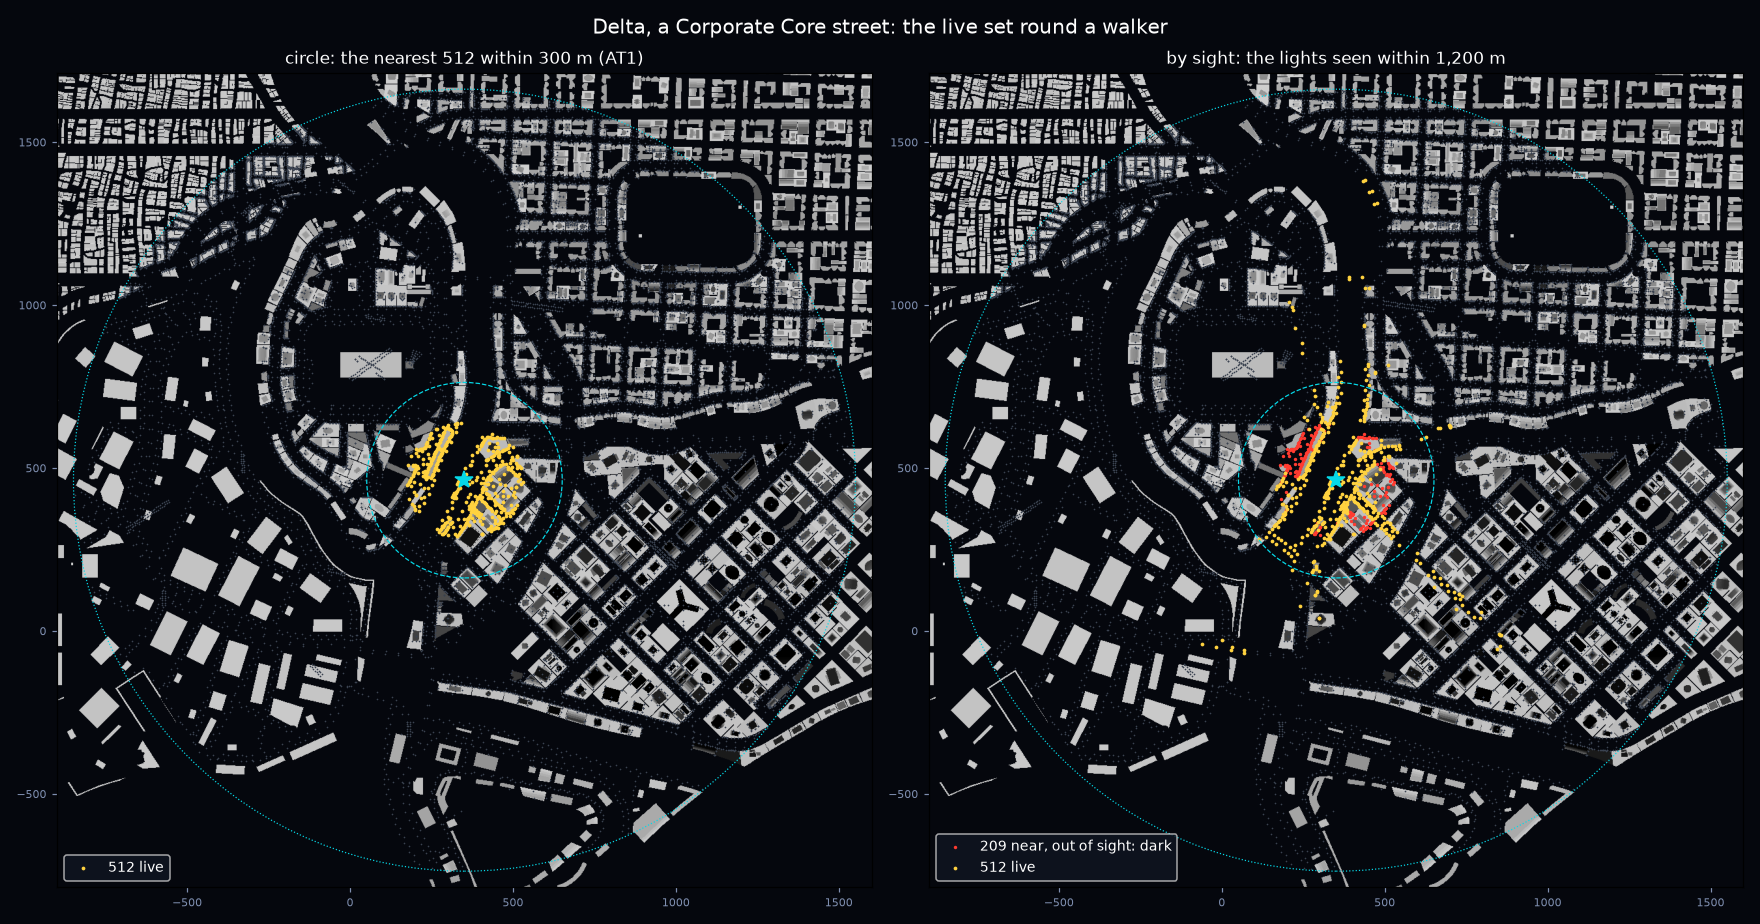
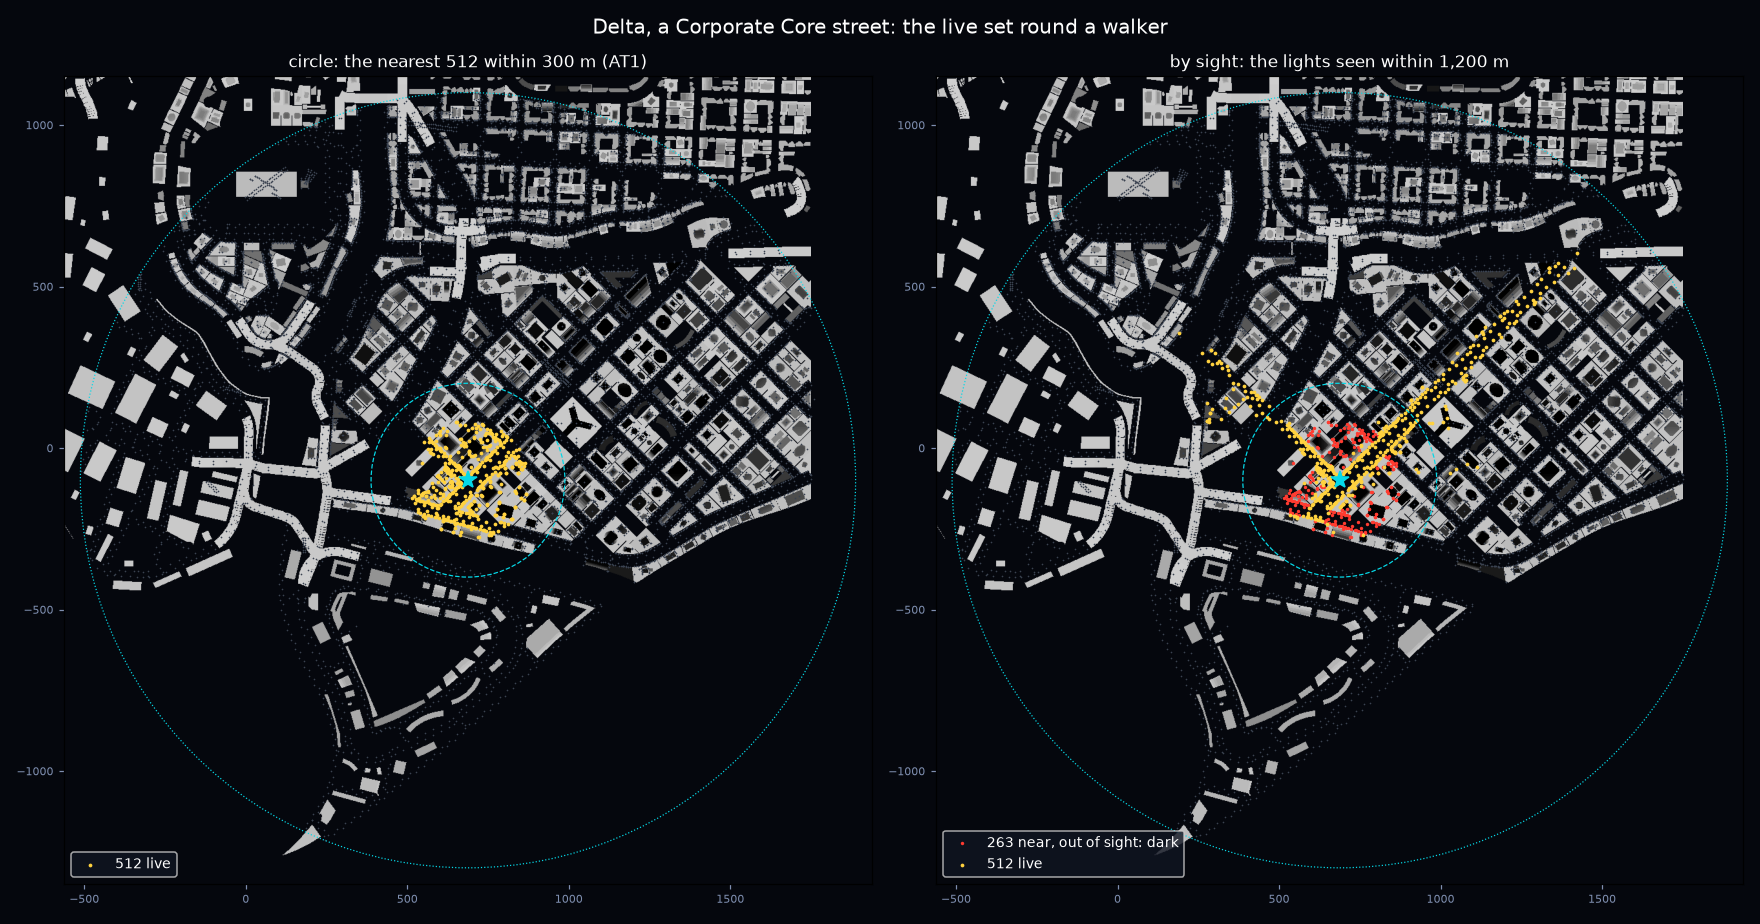
Visible lights: raised roads in the sight raster, live-set figures (WIP)

diff --git a/atmosgen/sight.py b/atmosgen/sight.py
@@ -6,8 +6,10 @@ The raster is the lux check's occluders (`lux.Occluders`: the building masses ta
 `lux.ERODE_M` inside their footprints, and the deck slabs, on a 1 m grid) brought to
 `CELL_M` cells: a cell blocks the height span every one of its four 1 m cells blocks (the
 lowest top over the highest bottom), so a line of sight grazing a facade, or reaching a sign
-stood off it, stays clear; and the ground under it (M13's, the lowest of its corners; 0 on a
-flat city) blocks everything below it. `sight.png` beside the plan, row 0 the north edge:
+stood off it, stays clear; the raised roads (`road_decks`: a viaduct's deck from its
+underside to its parapet, a ramp's foot and M18's embankments from the ground), which the lux
+check leaves out; and the ground under it (M13's, the lowest of its corners; 0 on a flat city)
+blocks everything below it. `sight.png` beside the plan, row 0 the north edge:
 
 - red: the top of what stands in the cell, absolute, in `TOP_STEP_M` steps rounded down
   (0: nothing stands there);
@@ -41,10 +43,77 @@ SKIP_EYE_M = 0.5          # the march leaves out the first this from the eye ...
 SKIP_LIGHT_M = 1.0        # ... and the last this to the light
 
 
-def raster(occ, ground_many=None, cell: float = CELL_M) -> dict:
-    """The sight raster from the lux check's occluders (`lux.Occluders`) and the ground
-    (`City.ground_many`, None on a flat city): {rgb (ny, nx, 3) uint8 with row 0 the north,
-    bounds [x0, y0, x1, y1], cell_m}."""
+RAISED_M = 2.5            # a road stretch this high or more over the ground is a deck ...
+DECK_UNDER_M = 1.8        # ... its underside this far under the road (citygen's ROAD_DECK_M)
+PARAPET_M = 1.1           # ... its parapet this far over it
+DECK_STEP_M = 8.0         # ... drawn in pieces this long
+DECK_INSET_M = 0.5        # ... this far inside its edges
+
+
+def road_decks(m: dict, ground_many=None) -> list:
+    """The raised roads as occluders (not the lux check's: a viaduct's deck blocks a walker's
+    view of what is past it, its parapet included): per raised road stretch of DECK_STEP_M,
+    its corridor (DECK_INSET_M inside its edges) from the deck's underside to its parapet's
+    top, absolute; a stretch whose underside is near the ground (a ramp's foot, M18's
+    embankments) stands on it. [(ring, z0, z1)]."""
+    from shapely.geometry import LineString
+    from shapely.ops import substring
+    out = []
+    for s in m.get("road_segments", []):
+        prof = s.get("z_profile") or []
+        if not prof or max(p["z"] for p in prof) < RAISED_M:
+            continue
+        ln = LineString([q[:2] for q in s["centerline"]])
+        if ln.length <= 0.0:
+            continue
+        ss = np.array([p["s"] for p in prof], dtype=float)
+        zs = np.array([p["z"] for p in prof], dtype=float)
+        half = float(s.get("width_m", 8.0)) / 2.0 - DECK_INSET_M
+        if half <= 0.5:
+            continue
+        n = max(1, int(math.ceil(ln.length / DECK_STEP_M)))
+        for k in range(n):
+            a, b = ln.length * k / n, ln.length * (k + 1) / n
+            z = np.interp(np.linspace(a, b, 5), ss, zs)
+            if z.max() < RAISED_M:
+                continue
+            piece = substring(ln, a, b)
+            if piece.length <= 0.0:
+                continue
+            g = piece.buffer(half, cap_style="flat")
+            if g.is_empty or g.geom_type != "Polygon":
+                continue
+            mid = piece.interpolate(0.5, normalized=True)
+            gz = float(ground_many([mid.x], [mid.y])[0]) if ground_many is not None else 0.0
+            out.append((list(g.exterior.coords), gz + float(z.min()) - DECK_UNDER_M,
+                        gz + float(z.max()) + PARAPET_M))
+    return out
+
+
+def _cells(shape, x0, y0, c, ring):
+    """The cells (rows from the south) whose middle lies in the ring, as a mask over its box:
+    (j0, i0, mask) or None."""
+    from PIL import Image, ImageDraw
+    ny, nx = shape
+    xs = [p[0] for p in ring]
+    ys = [p[1] for p in ring]
+    i0 = max(0, int(math.floor((min(xs) - x0) / c)))
+    j0 = max(0, int(math.floor((min(ys) - y0) / c)))
+    i1 = min(nx, int(math.ceil((max(xs) - x0) / c)) + 1)
+    j1 = min(ny, int(math.ceil((max(ys) - y0) / c)) + 1)
+    if i1 <= i0 or j1 <= j0:
+        return None
+    img = Image.new("L", (i1 - i0, j1 - j0), 0)
+    ImageDraw.Draw(img).polygon([((p[0] - x0) / c - i0 - 0.5, (p[1] - y0) / c - j0 - 0.5)
+                                 for p in ring], fill=1)
+    mask = np.asarray(img, dtype=bool)
+    return (j0, i0, mask) if mask.any() else None
+
+
+def raster(occ, ground_many=None, cell: float = CELL_M, decks=()) -> dict:
+    """The sight raster from the lux check's occluders (`lux.Occluders`), the raised roads
+    (`road_decks`) and the ground (`City.ground_many`, None on a flat city): {rgb (ny, nx, 3)
+    uint8 with row 0 the north, bounds [x0, y0, x1, y1], cell_m}."""
     k = max(1, int(round(cell / occ.cell)))
     ny, nx = occ.top.shape
     ny2, nx2 = (ny + k - 1) // k, (nx + k - 1) // k
@@ -57,6 +126,22 @@ def raster(occ, ground_many=None, cell: float = CELL_M) -> dict:
     b = bot.reshape(ny2, k, nx2, k).max(axis=(1, 3))
     c = occ.cell * k
     x0, y0 = occ.x0, occ.y0
+    # the raised roads, cell by cell (a middle in the corridor): where a cell holds nothing
+    # else, the deck's span; where a building's span meets it, the two as one
+    for ring, z0, z1 in decks:
+        hit = _cells(t.shape, x0, y0, c, ring)
+        if hit is None:
+            continue
+        j0, i0, mask = hit
+        tv = t[j0:j0 + mask.shape[0], i0:i0 + mask.shape[1]]
+        bv = b[j0:j0 + mask.shape[0], i0:i0 + mask.shape[1]]
+        empty = ~(np.isfinite(tv) & np.isfinite(bv) & (tv > bv))
+        meet = ~empty & (bv <= z1 + 0.5) & (tv >= z0 - 0.5)
+        put = mask & empty
+        tv[put], bv[put] = z1, z0
+        both = mask & meet
+        tv[both] = np.maximum(tv[both], z1)
+        bv[both] = np.minimum(bv[both], z0)
     if ground_many is not None:
         xs = x0 + c * np.arange(nx2 + 1)
         ys = y0 + c * np.arange(ny2 + 1)

diff --git a/tests/atmosgen/test_at_sight.py b/tests/atmosgen/test_at_sight.py
@@ -65,6 +65,27 @@ def test_lines_of_sight():
     assert SI.visible(r, (41.0, 50.0, 1.7), (10.0, 50.0, 5.0))
 
 
+def test_raised_roads_block_what_is_past_them():
+    """A viaduct (deck top 9 m, 12 m wide) across the map at y 50: a walker under it sees
+    along the street under it, not the lamps on the far side's street over the parapet."""
+    m = {"road_segments": [{"id": "rs.v", "width_m": 12.0,
+                            "centerline": [[0.0, 50.0], [100.0, 50.0]],
+                            "z_profile": [{"s": 0.0, "z": 9.0}, {"s": 100.0, "z": 9.0}]},
+                           {"id": "rs.g", "width_m": 10.0,
+                            "centerline": [[50.0, 0.0], [50.0, 100.0]],
+                            "z_profile": [{"s": 0.0, "z": 0.0}, {"s": 100.0, "z": 0.0}]}]}
+    decks = SI.road_decks(m)
+    assert decks and all(abs(z0 - 7.2) < 1e-6 and abs(z1 - 10.1) < 1e-6 for _, z0, z1 in decks)
+    r = SI.raster(_Occ(), decks=decks)
+    row = r["rgb"][25]                   # (y 50: 25 rows down from the north edge)
+    assert (row[5:45, 0] == 5).all() and (row[5:45, 1] == 8).all()
+    eye = (20.0, 20.0, 1.7)
+    assert not SI.visible(r, eye, (20.0, 80.0, 18.0))     # through the deck's side
+    assert SI.visible(r, eye, (20.0, 80.0, 6.0))          # under it
+    assert SI.visible(r, (50.0, 30.0, 1.7), (50.0, 80.0, 1.0))   # under it, along the street
+    assert SI.visible(r, eye, (20.0, 80.0, 40.0))         # over it
+
+
 def test_runs_cover_the_raster():
     r = _raster()
     runs = SI.runs(r["rgb"])

diff --git a/atmosgen/plan.py b/atmosgen/plan.py
@@ -1715,8 +1715,9 @@ def build_plan(build: str | Path, spec_path: str | Path | None = None,
         (od / SK.GLOW_FILE).unlink()
     # visible lights: the occluders the runtime marches a walker's line of sight through
     from . import sight as SI
+    gm = city.ground_many if city._grid is not None else None
     sight = timed("sight", lambda: SI.write(
-        SI.raster(occ, city.ground_many if city._grid is not None else None), od))
+        SI.raster(occ, gm, decks=SI.road_decks(city.m, gm)), od))
     # AT4: the air: fog and smog volumes, steam and smoke emitters, their check
     from . import air as AR
     air = AR.Air(pl)
